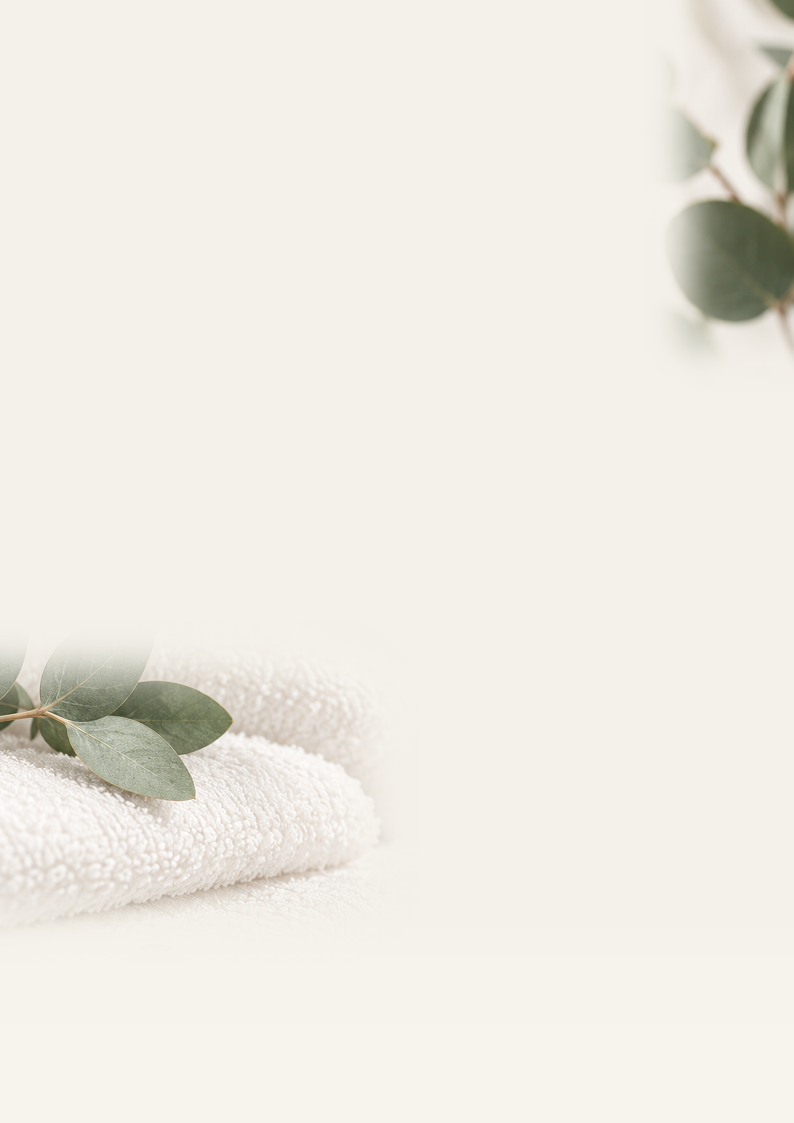
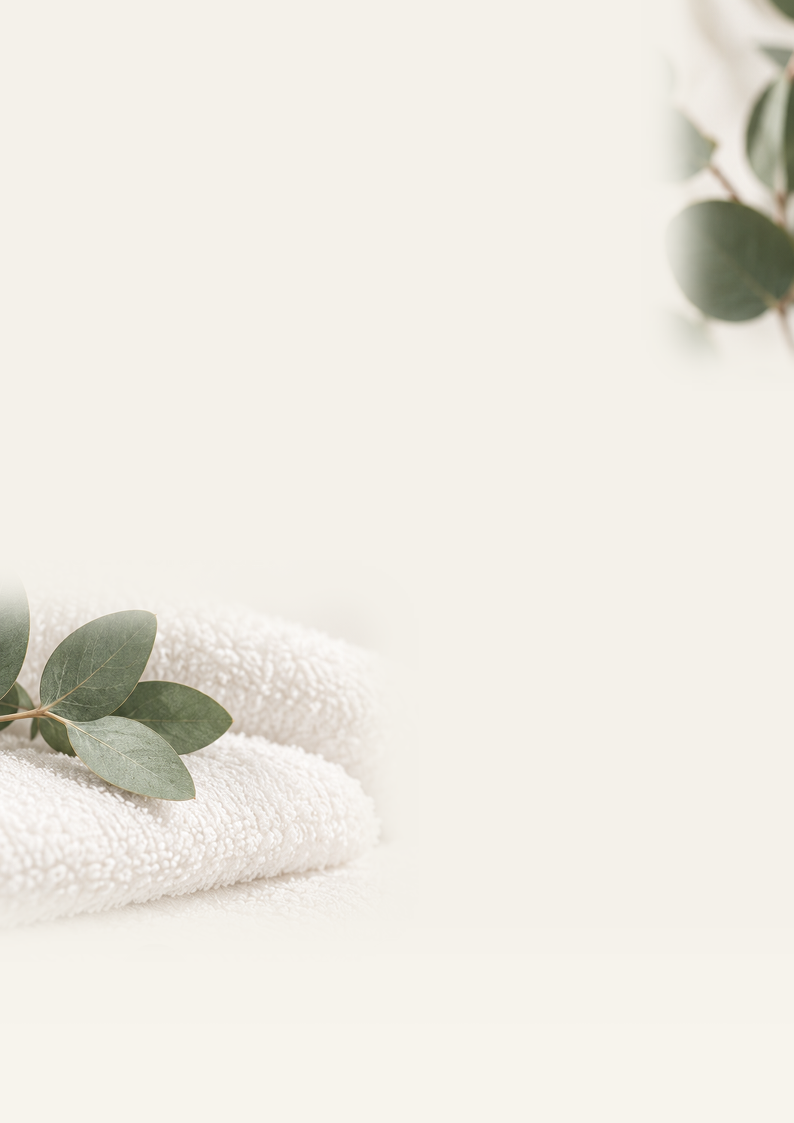
fix: refine botanical poster composition

Changed region(s): [[0.0, 0.5298, 0.3023, 0.6233]]

diff --git a/apps/web-app/src/lib/poster-render.ts b/apps/web-app/src/lib/poster-render.ts
@@ -565,13 +565,15 @@ function renderQrAndCta(qrDataUrl: string, template: PosterTemplateConfig) {
       const labelGap = template.inlineQrLabelGap ?? 18;
       const cardHeight = template.qrSize + 36;
       const qrContent = template.qrSize - 26;
+      const labelX = template.ctaX ?? template.qrX - (labelWidth - cardWidth) / 2;
+      const labelY = template.ctaY ?? template.qrY + cardHeight + labelGap;
 
       return `
         <g filter="url(#posterShadow)" transform="translate(${template.qrX} ${template.qrY})">
           <rect x="-18" y="-18" width="${cardWidth}" height="${cardHeight}" rx="28" fill="#ffffff" stroke="${template.qrFrame}" stroke-width="2"/>
           <image href="${escapeXml(qrDataUrl)}" x="5" y="5" width="${qrContent}" height="${qrContent}"/>
         </g>
-        <g filter="url(#posterShadow)" transform="translate(${template.qrX - (labelWidth - cardWidth) / 2} ${template.qrY + cardHeight + labelGap})">
+        <g filter="url(#posterShadow)" transform="translate(${labelX} ${labelY})">
           <rect width="${labelWidth}" height="${labelHeight}" rx="24" fill="${template.inlineQrLabelBackground ?? template.accent}" stroke="#ffffff" stroke-width="5"/>
           <text x="${labelWidth / 2}" y="${labelHeight / 2 + 9}" text-anchor="middle" fill="${template.inlineQrLabelTextColor ?? "#ffffff"}" font-family="${SAFE_FONT}" font-size="26" font-weight="800" letter-spacing="0.6">SCANNEZ POUR JOUER</text>
         </g>
@@ -649,21 +651,21 @@ function renderSteps(template: PosterTemplateConfig, gameType: Campaign["gameTyp
     return `
       <g transform="translate(0 944)">
         <rect width="${A4_WIDTH}" height="${A4_HEIGHT - 944}" fill="#fbf8f2" opacity="0.96"/>
-        <line x1="281" y1="44" x2="281" y2="142" stroke="${template.accent}" stroke-width="2"/>
-        <line x1="513" y1="44" x2="513" y2="142" stroke="${template.accent}" stroke-width="2"/>
-        <g transform="translate(33 10)">
-          <circle cx="132" cy="48" r="42" fill="${template.accent}"/>
-          <text x="132" y="62" text-anchor="middle" fill="#ffffff" font-family="${SAFE_FONT}" font-size="38" font-weight="800">1</text>
-          <text x="132" y="142" text-anchor="middle" fill="${template.accentDark}" font-family="${SAFE_FONT}" font-size="28" font-weight="700">Scannez</text>
+        <line x1="281" y1="35" x2="281" y2="125" stroke="${template.accent}" stroke-width="2"/>
+        <line x1="513" y1="35" x2="513" y2="125" stroke="${template.accent}" stroke-width="2"/>
+        <g transform="translate(33 -8)">
+          <circle cx="132" cy="48" r="35" fill="${template.accent}"/>
+          <text x="132" y="59" text-anchor="middle" fill="#ffffff" font-family="${SAFE_FONT}" font-size="34" font-weight="800">1</text>
+          <text x="132" y="124" text-anchor="middle" fill="${template.accentDark}" font-family="${SAFE_FONT}" font-size="28" font-weight="700">Scannez</text>
         </g>
-        <g transform="translate(264 10)">
-          <circle cx="132" cy="48" r="42" fill="${template.accent}"/>
-          <circle cx="132" cy="48" r="24" fill="none" stroke="#ffffff" stroke-width="4"/>
-          <path d="M132 24 v48 M108 48 h48 M115 31 l34 34 M149 31 l-34 34" stroke="#ffffff" stroke-width="3"/>
-          <text x="132" y="142" text-anchor="middle" fill="${template.accentDark}" font-family="${SAFE_FONT}" font-size="28" font-weight="700">${botanicalAction}</text>
+        <g transform="translate(264 -8)">
+          <circle cx="132" cy="48" r="35" fill="${template.accent}"/>
+          <circle cx="132" cy="48" r="21" fill="none" stroke="#ffffff" stroke-width="3.5"/>
+          <path d="M132 27 v42 M111 48 h42 M116 32 l32 32 M148 32 l-32 32" stroke="#ffffff" stroke-width="2.6"/>
+          <text x="132" y="124" text-anchor="middle" fill="${template.accentDark}" font-family="${SAFE_FONT}" font-size="28" font-weight="700">${botanicalAction}</text>
         </g>
-        <g transform="translate(497 10)">
-          <circle cx="132" cy="48" r="42" fill="${template.accent}"/>
+        <g transform="translate(497 -8)">
+          <circle cx="132" cy="48" r="35" fill="${template.accent}"/>
           <g transform="translate(132 48) scale(1.6)">
             <rect x="-13" y="-5" width="26" height="19" rx="2" fill="none" stroke="#ffffff" stroke-width="2.25" stroke-linecap="round" stroke-linejoin="round"/>
             <path d="M-15-5h30v7h-30z" fill="none" stroke="#ffffff" stroke-width="2.25" stroke-linecap="round" stroke-linejoin="round"/>
@@ -671,7 +673,7 @@ function renderSteps(template: PosterTemplateConfig, gameType: Campaign["gameTyp
             <path d="M0-5c-7 0-11-2-10-6 1-4 7-3 10 6Z" fill="none" stroke="#ffffff" stroke-width="2.25" stroke-linecap="round" stroke-linejoin="round"/>
             <path d="M0-5c7 0 11-2 10-6-1-4-7-3-10 6Z" fill="none" stroke="#ffffff" stroke-width="2.25" stroke-linecap="round" stroke-linejoin="round"/>
           </g>
-          <text x="132" y="142" text-anchor="middle" fill="${template.accentDark}" font-family="${SAFE_FONT}" font-size="28" font-weight="700">${gift}</text>
+          <text x="132" y="124" text-anchor="middle" fill="${template.accentDark}" font-family="${SAFE_FONT}" font-size="28" font-weight="700">${gift}</text>
         </g>
       </g>
     `;

diff --git a/apps/web-app/src/lib/poster-templates.ts b/apps/web-app/src/lib/poster-templates.ts
@@ -227,13 +227,13 @@ export const POSTER_TEMPLATES: PosterTemplateConfig[] = [
     wheelX: 0,
     wheelY: 0,
     wheelRadius: 0,
-    qrX: 436,
-    qrY: 480,
-    qrSize: 260,
-    ctaX: 412,
-    ctaY: 792,
-    ctaWidth: 350,
-    ctaHeight: 70,
+    qrX: 466,
+    qrY: 507,
+    qrSize: 245,
+    ctaX: 424,
+    ctaY: 756,
+    ctaWidth: 326,
+    ctaHeight: 64,
     ctaRotation: 0,
     headlineY: 170,
     headlineSizeMultiplier: 1.18,
@@ -244,7 +244,7 @@ export const POSTER_TEMPLATES: PosterTemplateConfig[] = [
     headlineItalic: false,
     headlineFontFamily: "cormorant",
     logoX: 72,
-    logoY: 65,
+    logoY: 34,
     logoFontWeight: 500,
     logoLetterSpacing: 5,
     logoFontFamily: "syncopate",
@@ -254,12 +254,12 @@ export const POSTER_TEMPLATES: PosterTemplateConfig[] = [
     inlineQrCta: true,
     inlineQrLabelBackground: "#718578",
     inlineQrLabelTextColor: "#ffffff",
-    inlineQrLabelWidth: 350,
-    inlineQrLabelHeight: 70,
+    inlineQrLabelWidth: 326,
+    inlineQrLabelHeight: 64,
     inlineQrLabelGap: 18,
     supportingText: "PRENEZ\nSOIN DE VOUS,\nLA CHANCE\nS’EN CHARGE.",
     supportingTextX: 72,
-    supportingTextY: 445,
+    supportingTextY: 463,
     supportingTextFontFamily: "syncopate",
     supportingTextFontSize: 22,
     supportingTextLineHeight: 34,
